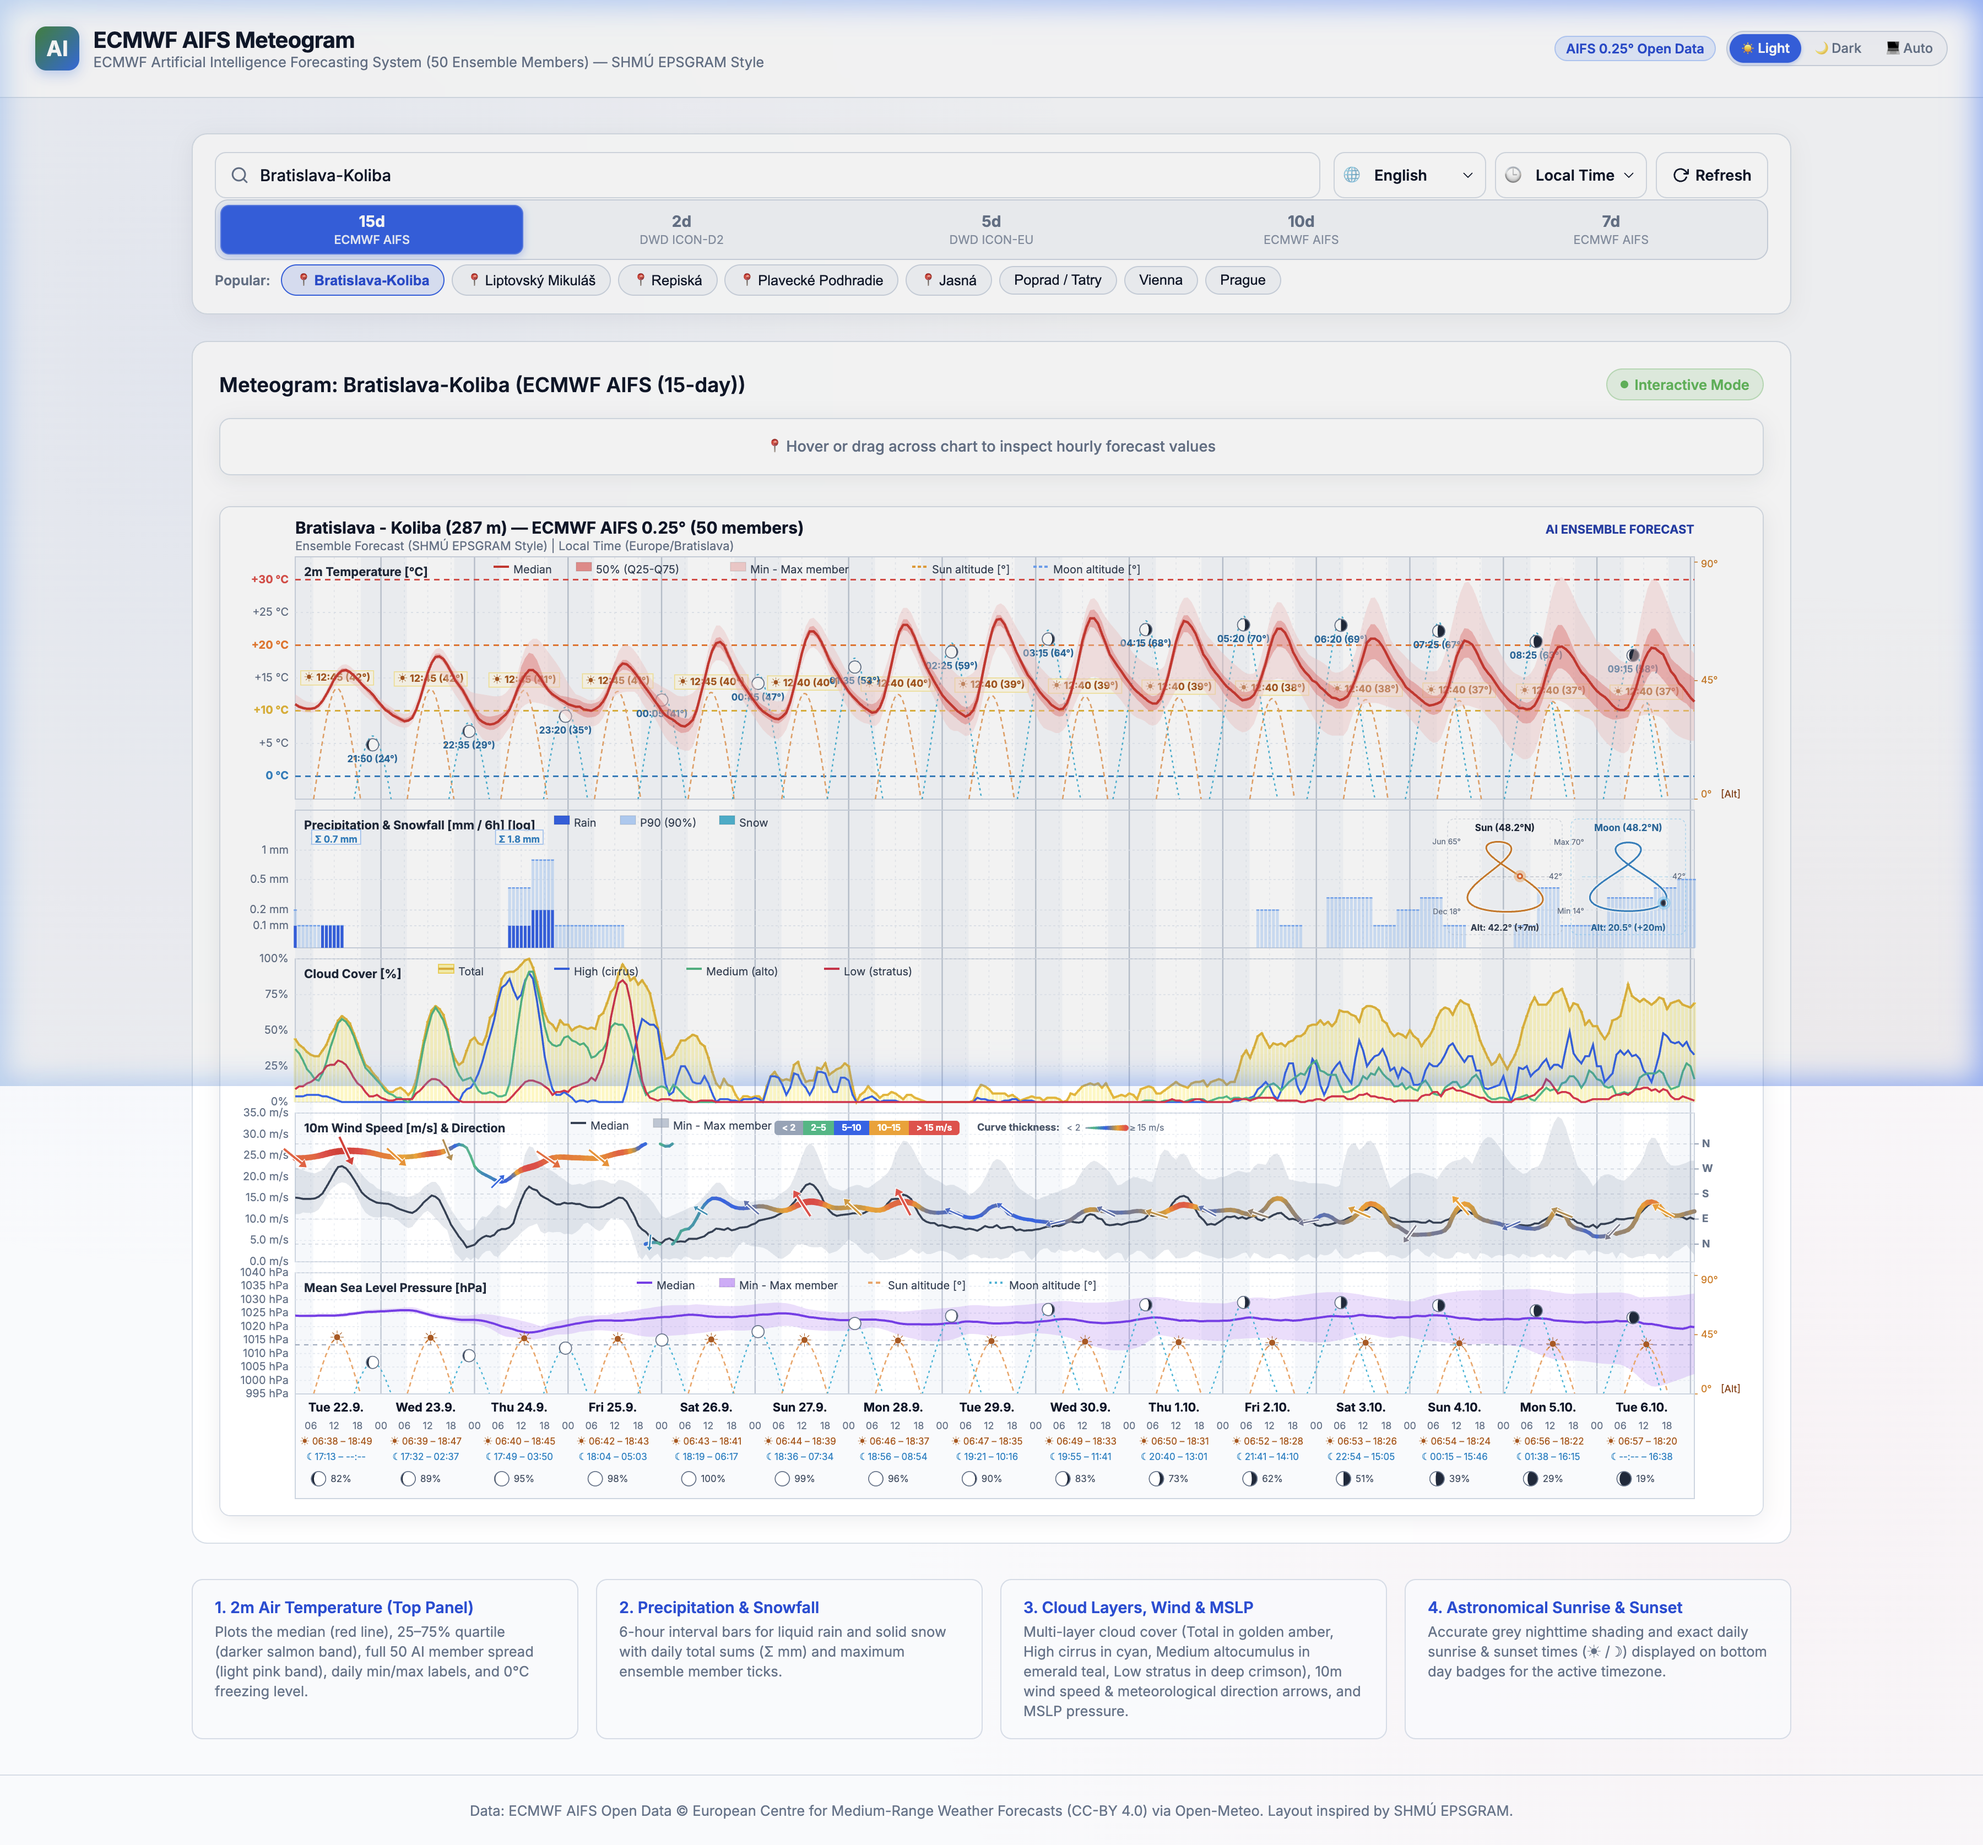
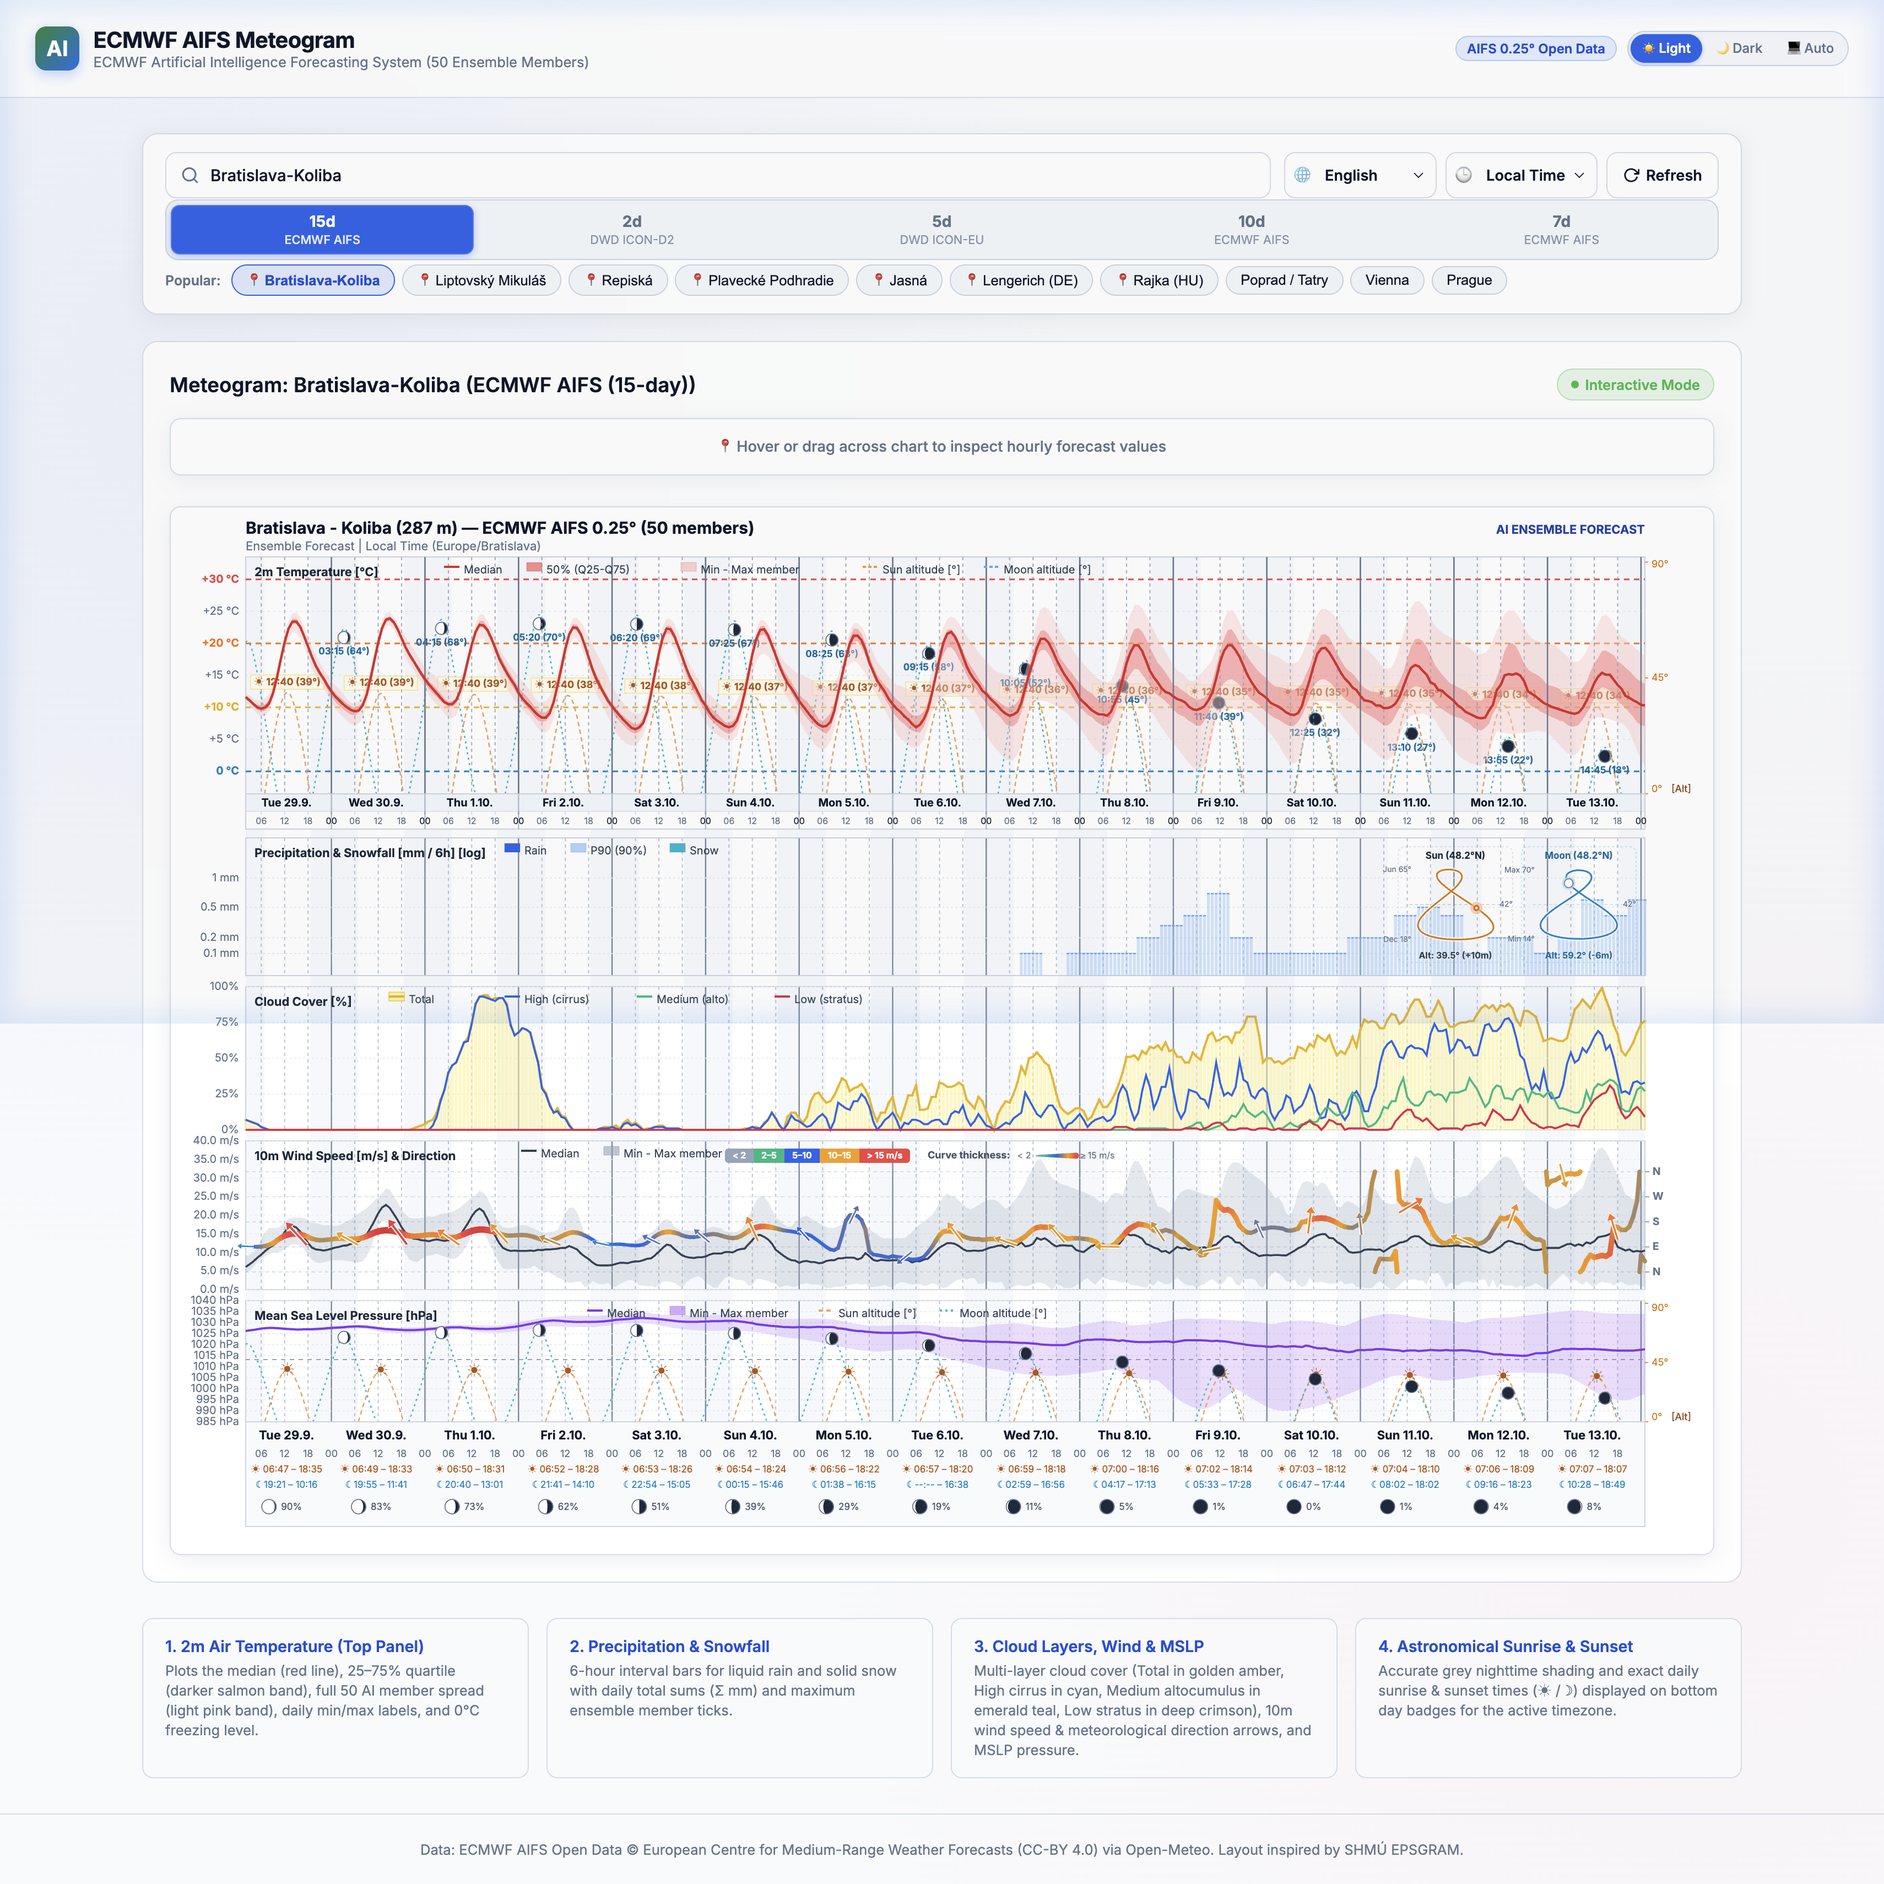
docs: update READMEs with dual top timeline, adaptive ticks, vertical grid system, and permanent iOS deployment options

diff --git a/README.md b/README.md
@@ -59,11 +59,15 @@ python3 server/server.py 8080
 - **Dynamic HTML5 Canvas Engine (`web/meteogram-chart.js`)**:
   - Automatically scales with `devicePixelRatio` for razor-sharp rendering on Retina and 4K/HiDPI displays.
   - Interactive crosshair tracking across all 5 synchronized panels with real-time value indicators.
+  - **Dual X-Axis Timeline & Integrated Date Headers**: The top of the temperature panel features an integrated time and date axis with distinct weekday and date badges, allowing instant inspection of the forecast timeline without scrolling down.
+  - **Adaptive Time Major Ticks & Multi-Panel Vertical Grid**:
+    - Dynamically scales tick frequency: 3-hour major ticks (`00, 03, 06, 09, 12, 15, 18, 21`) for high-resolution short-range forecasts (2-day DWD ICON-D2) and 6-hour ticks (`00, 06, 12, 18`) for standard horizons (5d, 10d, 15d).
+    - Synchronized vertical grid lines across all 5 graph panels: solid midnight dividers (`00:00`), dashed lines at 6-hour marks, and dotted lines at 3-hour marks, layered above ensemble shading for maximum clarity.
   - **Floating Glassmorphism HUD Tooltip**: Real-time inspection pane displaying exact temperature, precipitation, cloud volume, pressure, and celestial altitudes at the hovered timestamp.
   - **Dynamic Wind Direction Arrow in HUD**: Displays an SVG meteorological directional arrow that rotates smoothly to indicate wind flow, dynamically color-coded by the active wind speed category (calm slate, teal, emerald green, warm orange, storm crimson).
   - **Precipitation 90th Percentile (P90) Envelope**: Semi-transparent light-blue bars render the 90th percentile ensemble upper bound behind solid median precipitation bars, highlighting probabilistic extreme rain risks.
   - **Luminous Golden Yellow Cloud Cover**: Total cloud volume rendered as a luminous golden-yellow spline curve (`#eab308`) and subtle histogram bins, paired with isolated High Cirrus (royal blue `#2563eb`), Medium Alto (emerald `#10b981`), and Low Stratus (crimson `#e11d48`) layers.
-  - **Location-Aware Celestial Analemmas**: Side-by-side Solar & Lunar figure-8 analemma cards embedded directly in the precipitation pane with transparent backgrounds.
+  - **Location-Aware Celestial Analemmas**: Side-by-side Solar & Lunar figure-8 analemma cards embedded directly in the precipitation pane with transparent backgrounds and phase-accurate lunar illumination.
   - **Logarithmic Precipitation Scaling**: Pseudo-logarithmic scaling ($v_0 = 0.2\text{ mm}$) that expands low-intensity precipitation ($0.1 - 2.0\text{ mm}$) for clear visibility of light rain, drizzle, and snow.
   - **Continuous Loop Wind Direction & Dual Velocity Encoding**: Continuous `N-W-S-E-N` looping trajectory with speed-proportional stroke thickness and multi-threshold color coding.
 - **Always-Fresh Data & One-Tap Refresh**:
@@ -134,6 +138,7 @@ python3 server/server.py 8080
 ## 📊 Weather Parameters Visualized
 
 1. **2m Air Temperature (°C)**:
+   - **Dual X-Axis Timeline**: Integrated top timeline displaying calendar day pills (e.g. `Monday 29.09`) and adaptive time ticks, allowing immediate timeline orientation at the very top of the graph.
    - Median trajectory curve, interquartile 25–75% band, and full ensemble min-max spread.
    - **Colored Threshold Grid Lines**: Distinctive reference levels at $-10^\circ\text{C}$ (light blue), $0^\circ\text{C}$ (freezing level blue), $+10^\circ\text{C}$ (yellow), $+20^\circ\text{C}$ (orange), and $+30^\circ\text{C}$ (red).
    - **Sun & Moon Celestial Trajectories**: Continuous elevation arcs rising from and landing strictly at the bottom horizon line, annotated with culmination peak badges (`☀ HH:MM (XX°)`, `☾ HH:MM (XX°)`).

diff --git a/MeteogramApp/README.md b/MeteogramApp/README.md
@@ -75,6 +75,39 @@ When running on an iPhone:
 
 ---
 
+## 📲 Permanent Installation on iPhone
+
+To run the app on your physical iPhone without having it expire:
+
+| Method | Validity | Cost | Renewal Effort | Best For |
+| :--- | :--- | :--- | :--- | :--- |
+| **PWA Web App** | Unlimited | Free | None (Automatic) | Instant access anywhere without Xcode |
+| **Apple Developer Account** | 365 Days | $99/year | Once a year | Best native experience & TestFlight distribution |
+| **AltStore / SideStore** | Permanent (auto-refresh) | Free | Automatic in background over Wi-Fi | Free native sideloading without weekly Mac connection |
+| **Xcode Free Team** | 7 Days | Free | Re-run `⌘R` in Xcode weekly | Local testing and debugging |
+
+### 1. PWA Web App (Zero Setup, No Expiry)
+Open the live meteogram web app in Safari on your iPhone:
+`https://igorcerovsky.github.io/AIFS-meteogram/`
+Tap the **Share** button in Safari $\rightarrow$ tap **Add to Home Screen** $\rightarrow$ tap **Add**.
+- Launches full-screen like a standalone app with its own app icon.
+- Queries Open-Meteo directly with zero backend required.
+- Never expires and requires no certificates or profiles.
+
+### 2. Apple Developer Account (365 Days or TestFlight)
+With an active Apple Developer Program account:
+1. In Xcode, set **Signing & Capabilities** to your paid Apple Developer Team.
+2. Direct install on your device remains valid for a full **365 days**.
+3. Or distribute via **TestFlight** (internal testing: up to 100 devices, builds valid 90 days with seamless automatic updates over the air).
+
+### 3. AltStore / SideStore (Permanent Free Sideloading)
+1. Install [SideStore](https://sidestore.io/) or [AltStore](https://altstore.io/) on your iPhone.
+2. In Xcode, select **Product $\rightarrow$ Archive**, export the `.ipa` package.
+3. Open the `.ipa` in SideStore/AltStore on your iPhone.
+4. SideStore automatically refreshes the 7-day provisioning certificate in the background over local Wi-Fi via a local WireGuard loopback, keeping the native app permanently active.
+
+---
+
 ## 📁 Architecture & File Structure
 
 ```
@@ -95,6 +128,7 @@ MeteogramApp/
 │   │   ├── ContentView.swift      # Adaptive root container
 │   │   ├── NativeMeteogramChartView.swift # Native Swift Charts meteogram & analemmas
 │   │   ├── ControlPanelView.swift # Controls & parameters form
+│   │   ├── ModelPillsBar.swift    # Compact model switch pills
 │   │   ├── MeteogramImageViewer.swift # Gesture-enabled image viewer
 │   │   ├── FallbackAlertBanner.swift  # Model fallback warning banner
 │   │   ├── PresetsRowView.swift   # Quick preset chips
